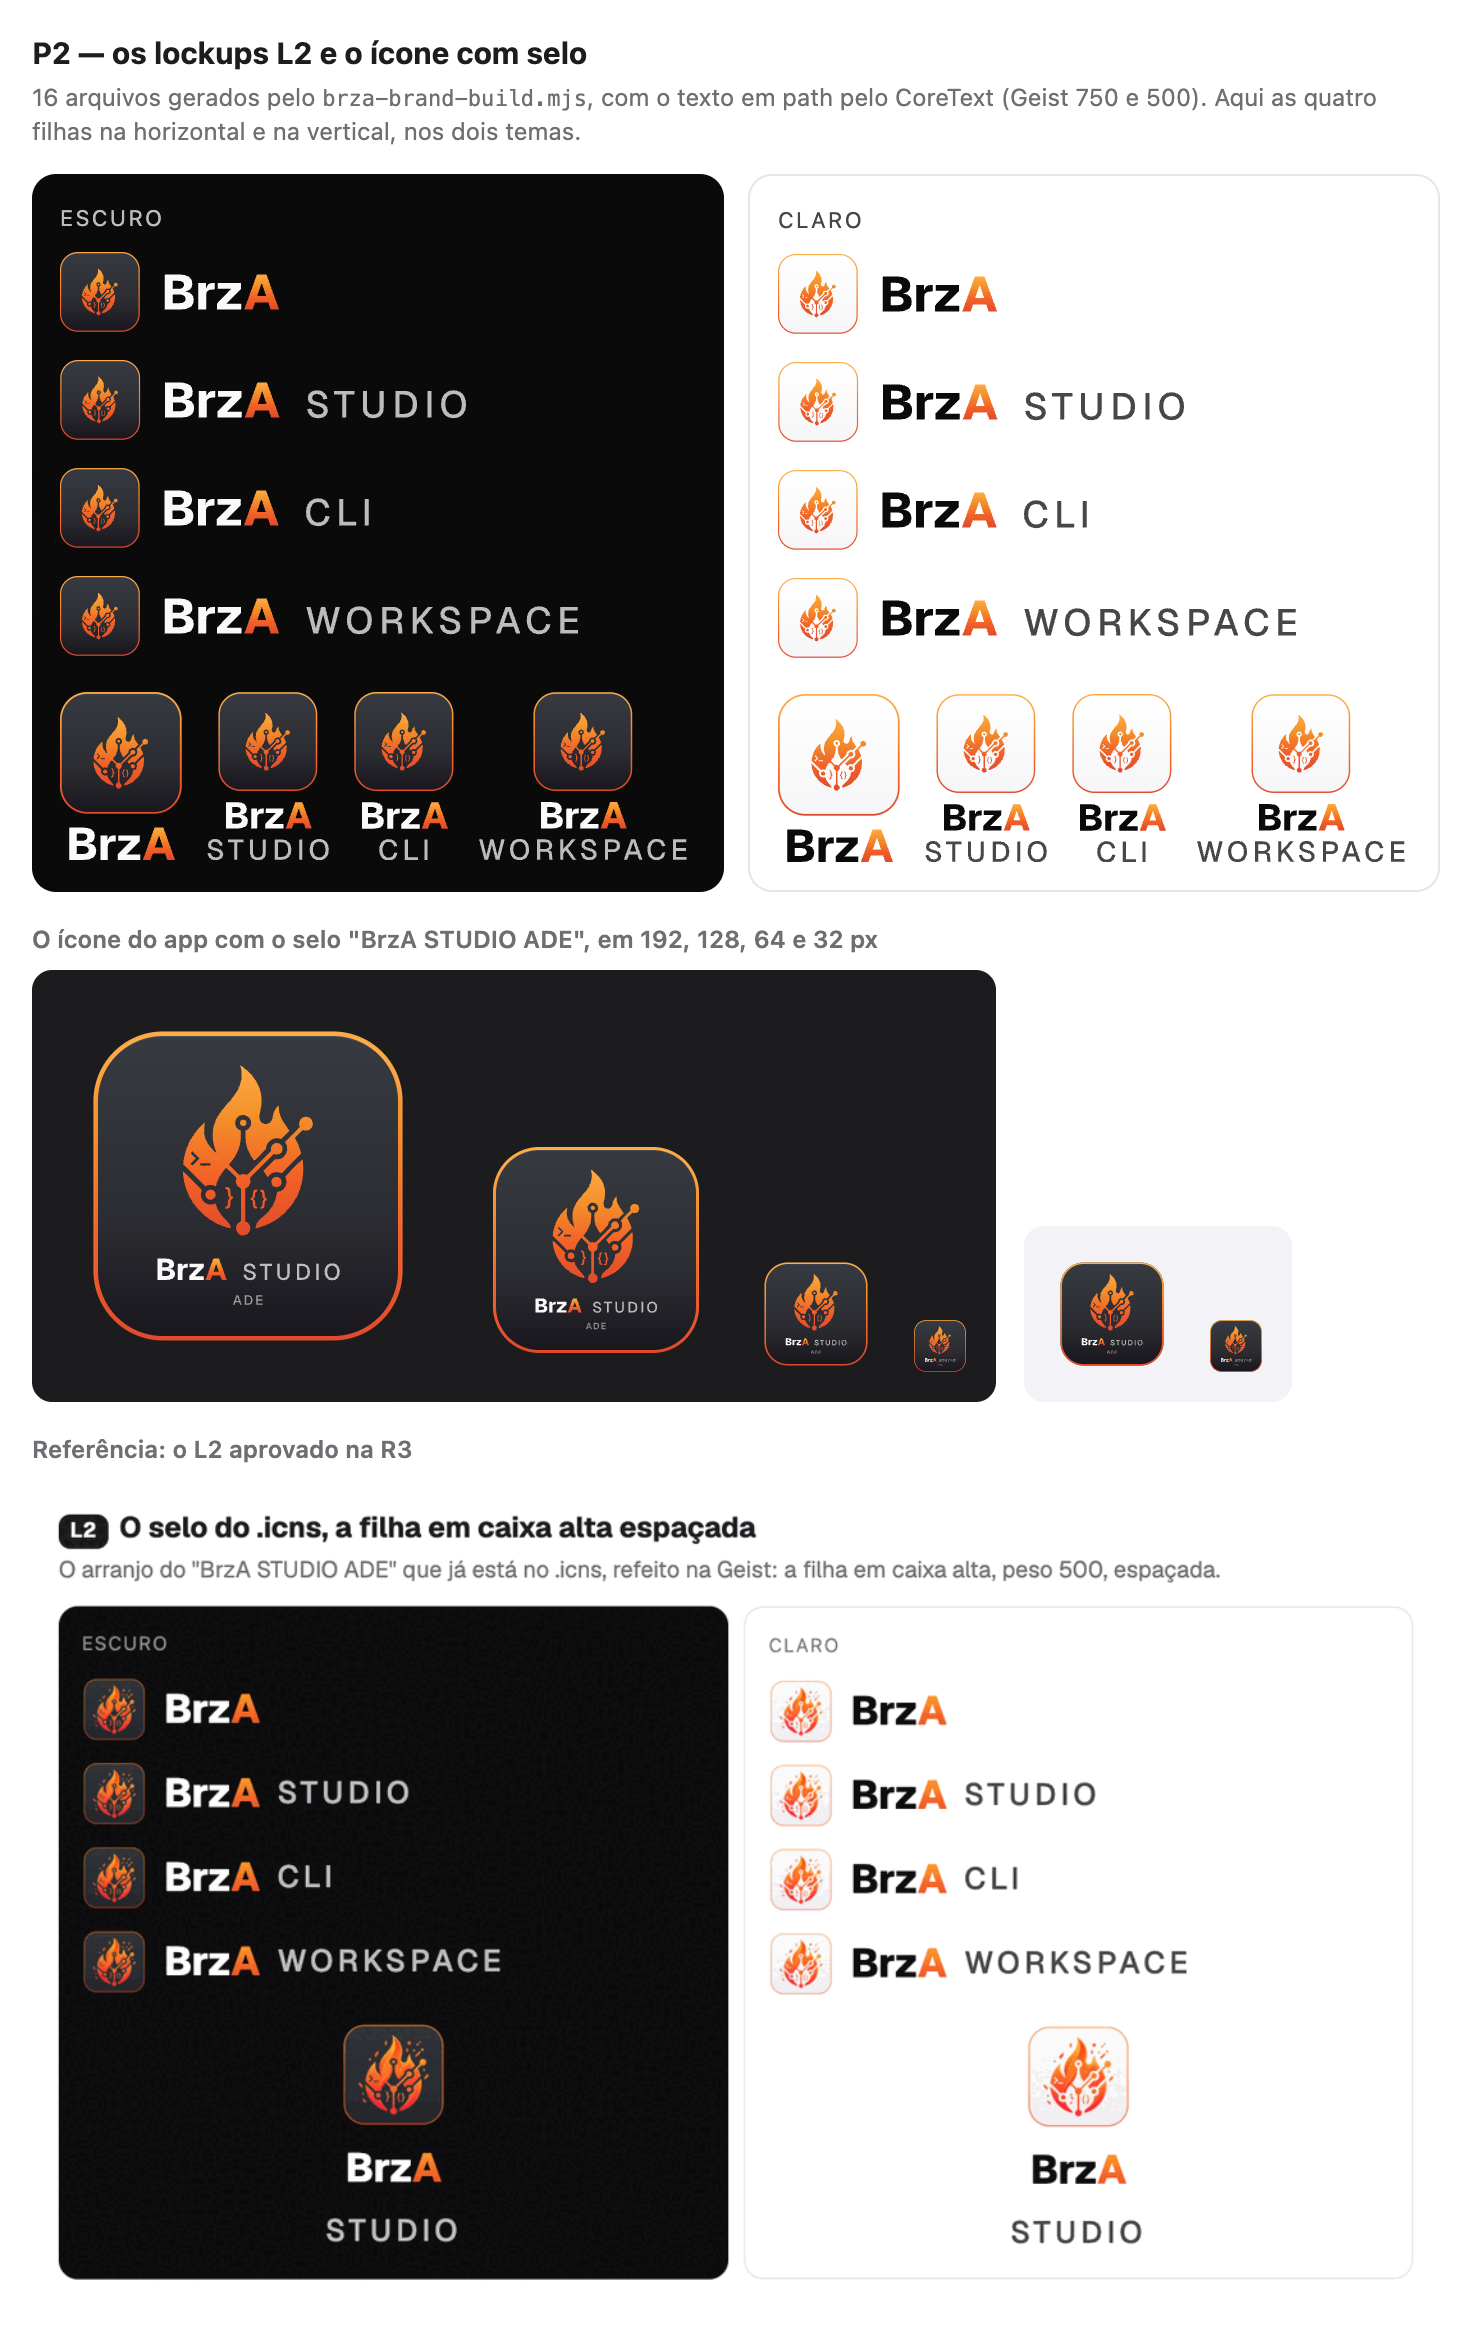
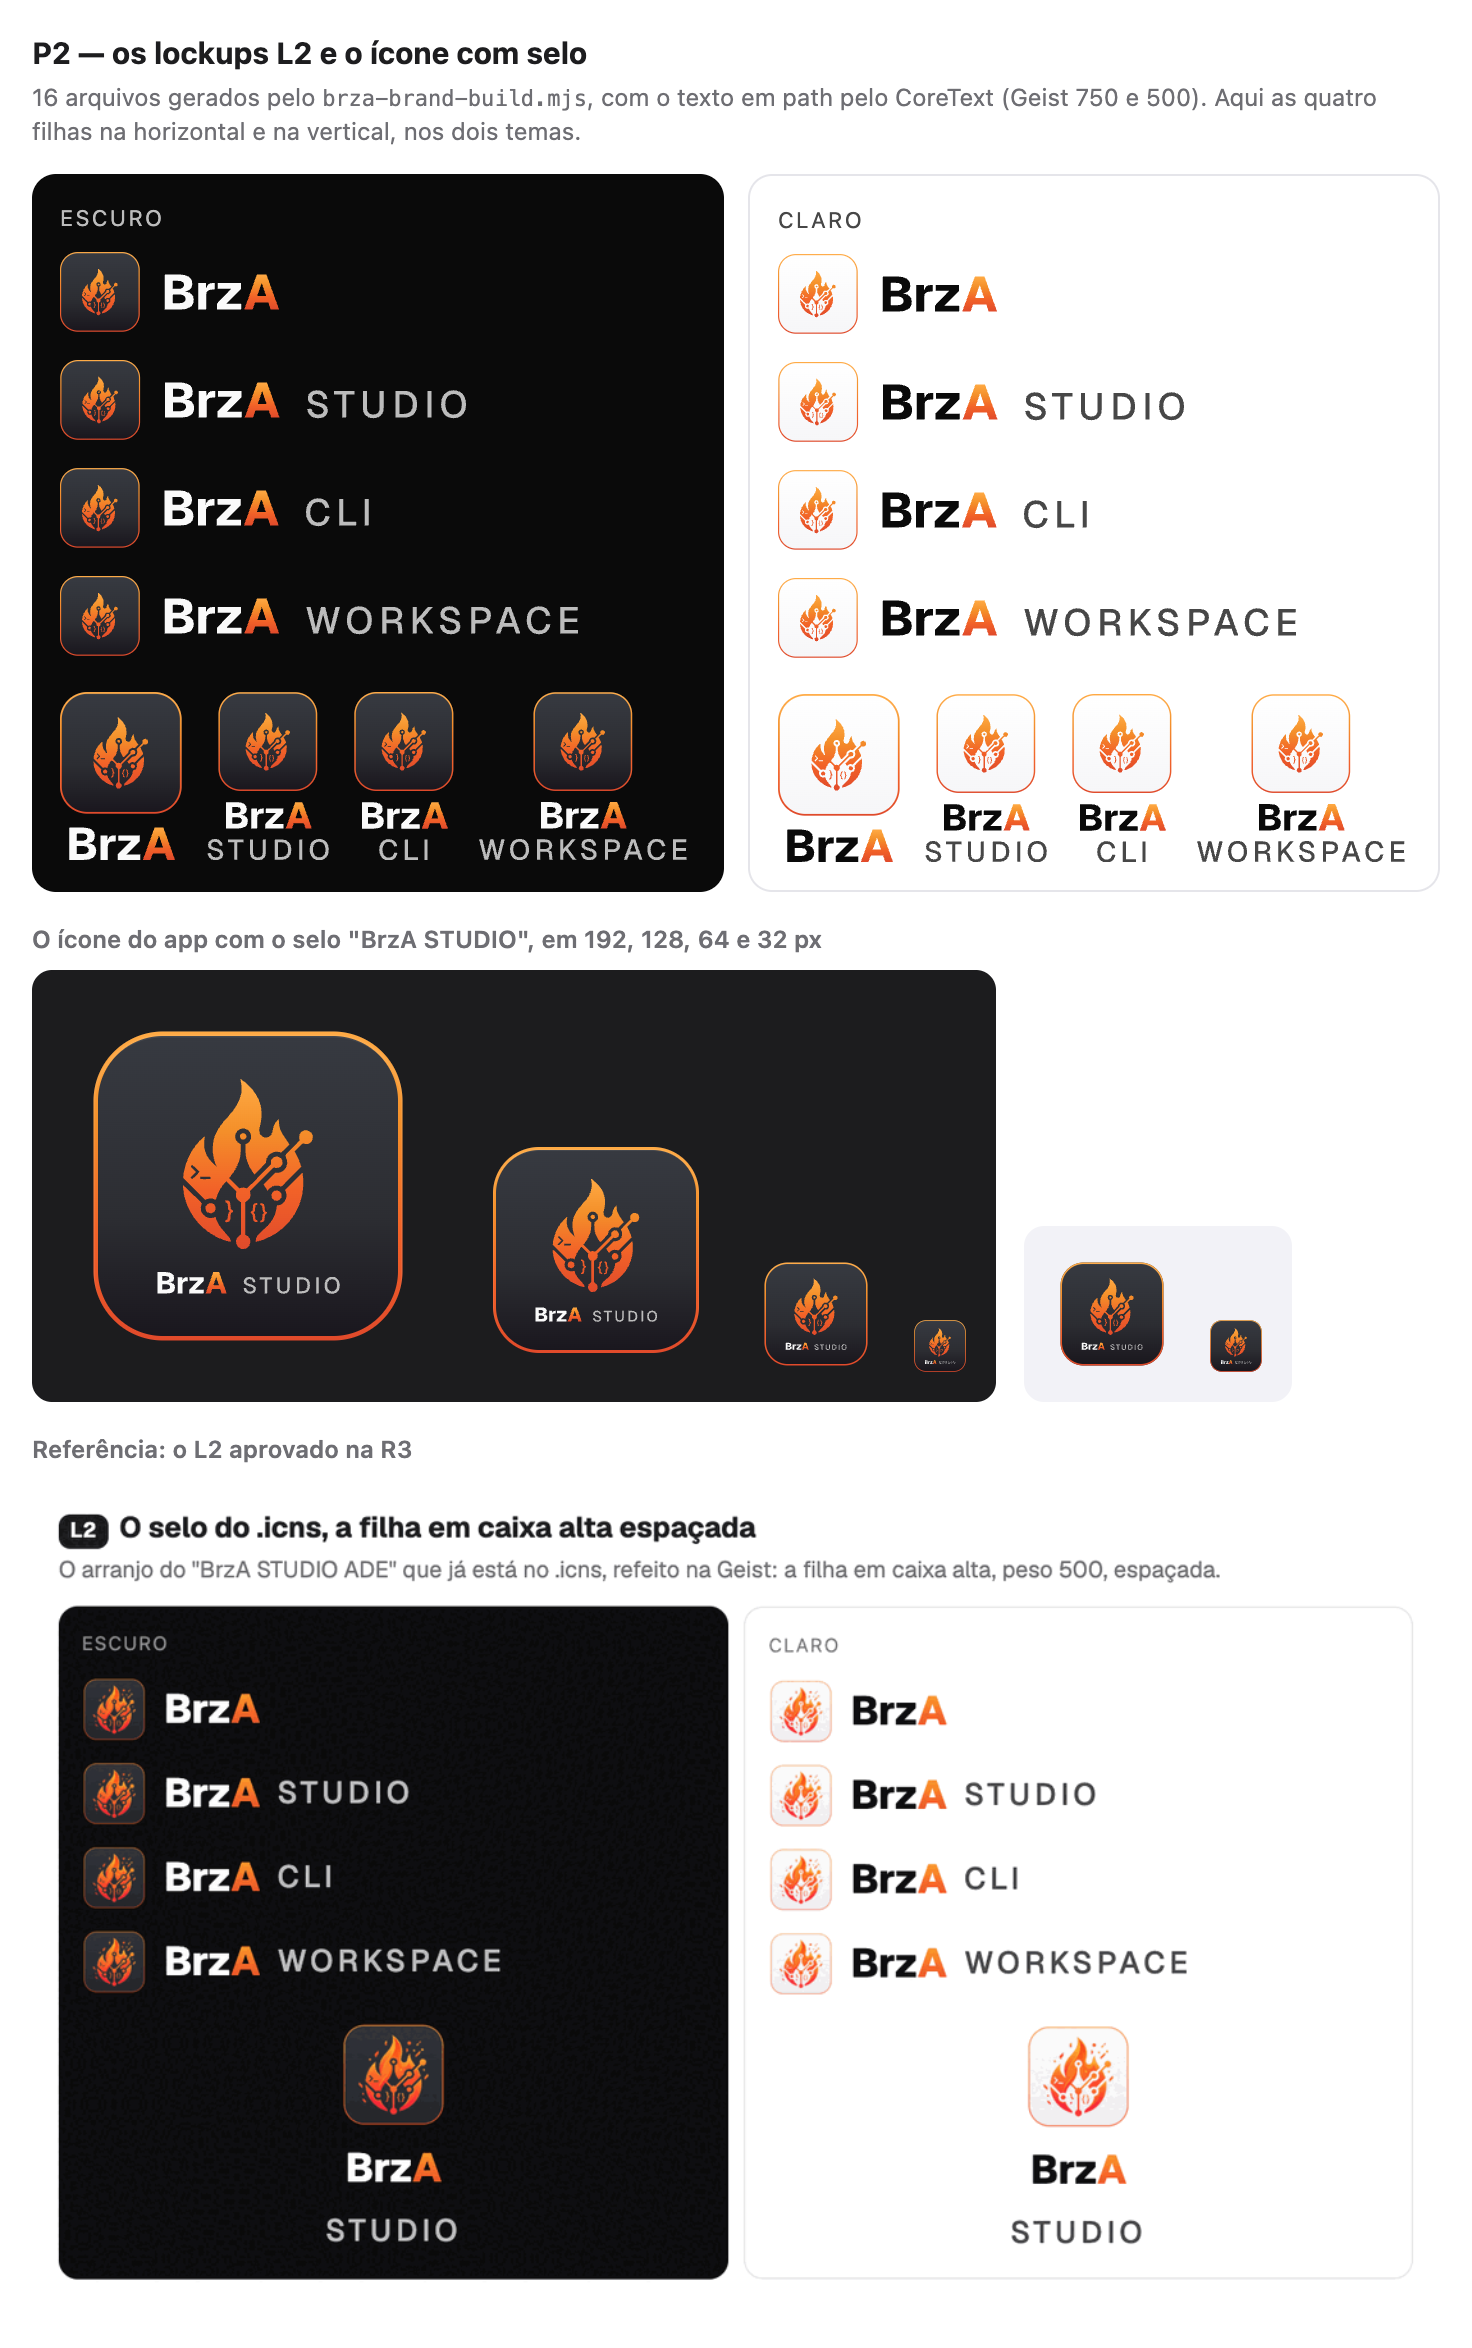
docs(plans): PLN-007 P2, o selo do ícone sem o ADE e o grupo rebalanceado no tile

diff --git a/plans/PLN-007-a-identidade-visual-da-marca-brza/PLN-007-design.md b/plans/PLN-007-a-identidade-visual-da-marca-brza/PLN-007-design.md
@@ -12,7 +12,7 @@ Do plano [PLN-007: A marca BrzA tem símbolo, logotipo e derivadas a partir da c
   o próprio ícone.
 - **R2.5:** E2, a borda da logo só no foco do composer.
 - **R2.6:** M1, M2, M3 e M5 no chat; o M4 fica fora.
-- **R3.1:** L2, o arranjo do selo do `.icns` na Geist; o "ADE" só no ícone.
+- **R3.1:** L2, o arranjo do selo do `.icns` na Geist; o selo do ícone é só "BrzA STUDIO", sem o "ADE" (pedido de Anderson, 2026-11-02).
 - **R3.2:** P1, a paleta do ícone, com o `--agent-question` em azul.
 - **R3.3:** S1, o traço mono de hoje com o `}` corrigido, para o glifo do chat, o M2 e o M5.
 - **R3.4:** a marca entra no app desktop, no CLI e nos READMEs; o mobile e os restos da Orca vão à issue.
@@ -149,7 +149,7 @@ resources/brand/
   brza-symbol.svg              # mestre: tile grafite + chama, sem selo
   brza-symbol-light.svg        # Light Flame: o mestre com o tile claro
   brza-symbol-dev.svg          # o mestre com o selo azul "D"
-  brza-app-icon.svg            # o mestre com o selo "BrzA STUDIO ADE" em paths
+  brza-app-icon.svg            # o mestre com o selo "BrzA STUDIO" em paths
   brza-symbol-mono.svg         # S1 (D2), em currentColor
   brza-tray-template.svg       # S1 em preto, no canvas 22×14 do tray
   brza-*-lockup-*.svg          # D3
@@ -231,7 +231,7 @@ O mestre, `brza-symbol.svg`, com o tile na grade da Apple (R5.1):
   | :------ | :--------- |
   | `brza-symbol-light.svg` | `url(#brza-tile-dark)` → `url(#brza-tile-light)` |
   | `brza-symbol-dev.svg` | mais um `<g id="dev-badge">`: círculo `#1447e6` de r=150 em (800, 800) com o "D" da Geist 700 em path branco |
-  | `brza-app-icon.svg` | `#flame` subido e reduzido, e o `<g id="seal">` do D3 com "BrzA STUDIO" e "ADE" em paths, no arranjo do `build/icon.png` de hoje |
+  | `brza-app-icon.svg` | `#flame` subido e reduzido, e o `<g id="seal">` do D3 com "BrzA STUDIO" em paths, no arranjo do `build/icon.png` de hoje |
   | `brza-tray-template.svg` | o S1 (D2) em `fill="#000"`, `viewBox` 22×14, a chama de 14 de altura centrada |
   | `resources/logo.svg` | cópia do `brza-symbol.svg` (R5.2): o A1 colorido com o tile, a arte sem selo dos slots pequenos |
 
@@ -278,7 +278,7 @@ swift config/scripts/brza-brand-text.swift <woff2> <wght> <tracking-em> <texto> 
 - Monta um `CTLine` com `kCTFontVariationAttribute` (`wght`) e `kCTKernAttributeName` (o tracking), para o kerning do
   GPOS valer; percorre os `CTRun` e grava o `CTFontCreatePathForGlyph` de cada glifo na posição do run, com y invertido
   e 2 casas decimais.
-- O `brza-brand-build.mjs` chama o script uma vez por texto — "BrzA" peso 750; "STUDIO", "CLI", "WORKSPACE" e "ADE"
+- O `brza-brand-build.mjs` chama o script uma vez por texto — "BrzA" peso 750; "STUDIO", "CLI" e "WORKSPACE"
   peso 500 com `.14em` — e monta os lockups. Os SVG gerados vão ao git; o script só roda de novo quando o texto ou a
   fonte mudam.
 
@@ -300,7 +300,7 @@ swift config/scripts/brza-brand-text.swift <woff2> <wght> <tracking-em> <texto> 
 | claro  | `brza-symbol-light.svg`  | `#0A0A0A` | `#474747`                                |
 
 **Os arquivos:** `brza-lockup-{horizontal,vertical}-{dark,light}.svg`, só "BrzA", e
-`brza-{studio,cli,workspace}-lockup-{horizontal,vertical}-{dark,light}.svg` — 16 ao todo. O "ADE" só entra no
+`brza-{studio,cli,workspace}-lockup-{horizontal,vertical}-{dark,light}.svg` — 16 ao todo. O selo "BrzA STUDIO", sem "ADE", só entra no
 `brza-app-icon.svg` (D1).
 
 **Dentro do app, o logotipo é texto vivo** (R5.4), em `src/renderer/src/components/brza/BrzaWordmark.tsx`:

diff --git a/plans/PLN-007-a-identidade-visual-da-marca-brza/PLN-007-plan.md b/plans/PLN-007-a-identidade-visual-da-marca-brza/PLN-007-plan.md
@@ -103,7 +103,7 @@ Executa D3 (o script de texto e os 16 SVG) · executor: sessão do `brand`, no s
 Estimado: 2,5 h · Executado: 0,3 h
 
 - [x] **1. O texto em path** — o `brza-brand-text.swift` devolve o JSON de "BrzA" (750), "STUDIO", "CLI", "WORKSPACE"
-      e "ADE" (500, `.14em`); a prova é o avanço de "BrzA" a 100 pt dar ~246,9 em 750.
+      (500, `.14em`); a prova é o avanço de "BrzA" a 100 pt dar ~246,9 em 750.
 - [x] **2. Os lockups** — o `brza-brand-build.mjs` monta os 16 `*-lockup-*.svg` e o `<g id="seal">` do
       `brza-app-icon.svg`, pela tabela de geometria do D3.
 - [x] **3. A conferência** — artboard com as 4 filhas, horizontal e vertical, nos 2 temas, ao lado do PNG do L2, pelo
@@ -118,7 +118,9 @@ e `capHeight` 71; em `wght` 400, 226,4. O `brza-brand-build.mjs` gera os 16 `*-l
 `<g id="seal">`. O artboard foi conferido pelo `brza shot` a 736 px, nos dois temas
 ([`PLN-007-lockups-l2-rascunho.png`](PLN-007-lockups-l2-rascunho.png)), ao lado do L2 da R3; a primeira passada estourou a
 fila dos verticais, e foi corrigida. O `rsvg-convert` renderiza o ícone com selo e um lockup sem erro, e é com ele que o
-P4 gera o `.icns`. **Desvio:** o `kCTKernAttributeName` zero desliga o kerning, então o `advance` do "BrzA" a
+P4 gera o `.icns`. **O selo do ícone saiu sem o "ADE"**, a pedido de Anderson em 2026-11-02, e o grupo chama e texto
+desceu 36 px para ficar centrado no tile (margem de ~125 px em cima e embaixo); o `brza-app-icon.svg` foi regenerado.
+**Desvio:** o `kCTKernAttributeName` zero desliga o kerning, então o `advance` do "BrzA" a
 `tracking 0` é a soma dos avanços; com o `-0,01 em` dos lockups o kerning vale, como no texto vivo do `BrzaWordmark`.
 
 ### P3 — Os tokens P1 e o aviso de pergunta azul

diff --git a/work/worklogs/2026-11-02-pln-007-o-desenho-da-marca-brza.md b/work/worklogs/2026-11-02-pln-007-o-desenho-da-marca-brza.md
@@ -127,3 +127,8 @@ reporte no final". O P2 rodou no scratch e a fonte foi à pasta do plano, renome
 - O P3 foi feito por outra sessão, conduzida por Anderson: `41bfe6d1d4e` e o conserto do `path-literal-ratchet`
   (`a3a89e3aaf5`), na `master`; o worklog dela está em
   [PLN-007: os tokens da marca e o aviso de pergunta azul](2026-11-02-pln-007-os-tokens-da-marca.md).
+- **O selo sem o "ADE":** Anderson pediu o selo do ícone só com "BrzA STUDIO". O `brza-brand-build.mjs` perdeu o texto
+  "ADE", e o grupo chama e texto desceu 36 px para ficar centrado no tile; com só o "ADE" removido, sobravam 161 px
+  embaixo e 90 em cima. O `brza-app-icon.svg` foi regenerado, o artboard e o rascunho do PNG também, e o `implementer`
+  do P4 foi avisado para regenerar o ícone e rodar de novo o `pnpm build:icons`. O rótulo "BrzA Studio ADE" do seletor
+  de ícone do app não foi tocado: é texto do `shared/app-icon.ts`, e trocá-lo é decisão de Anderson.
